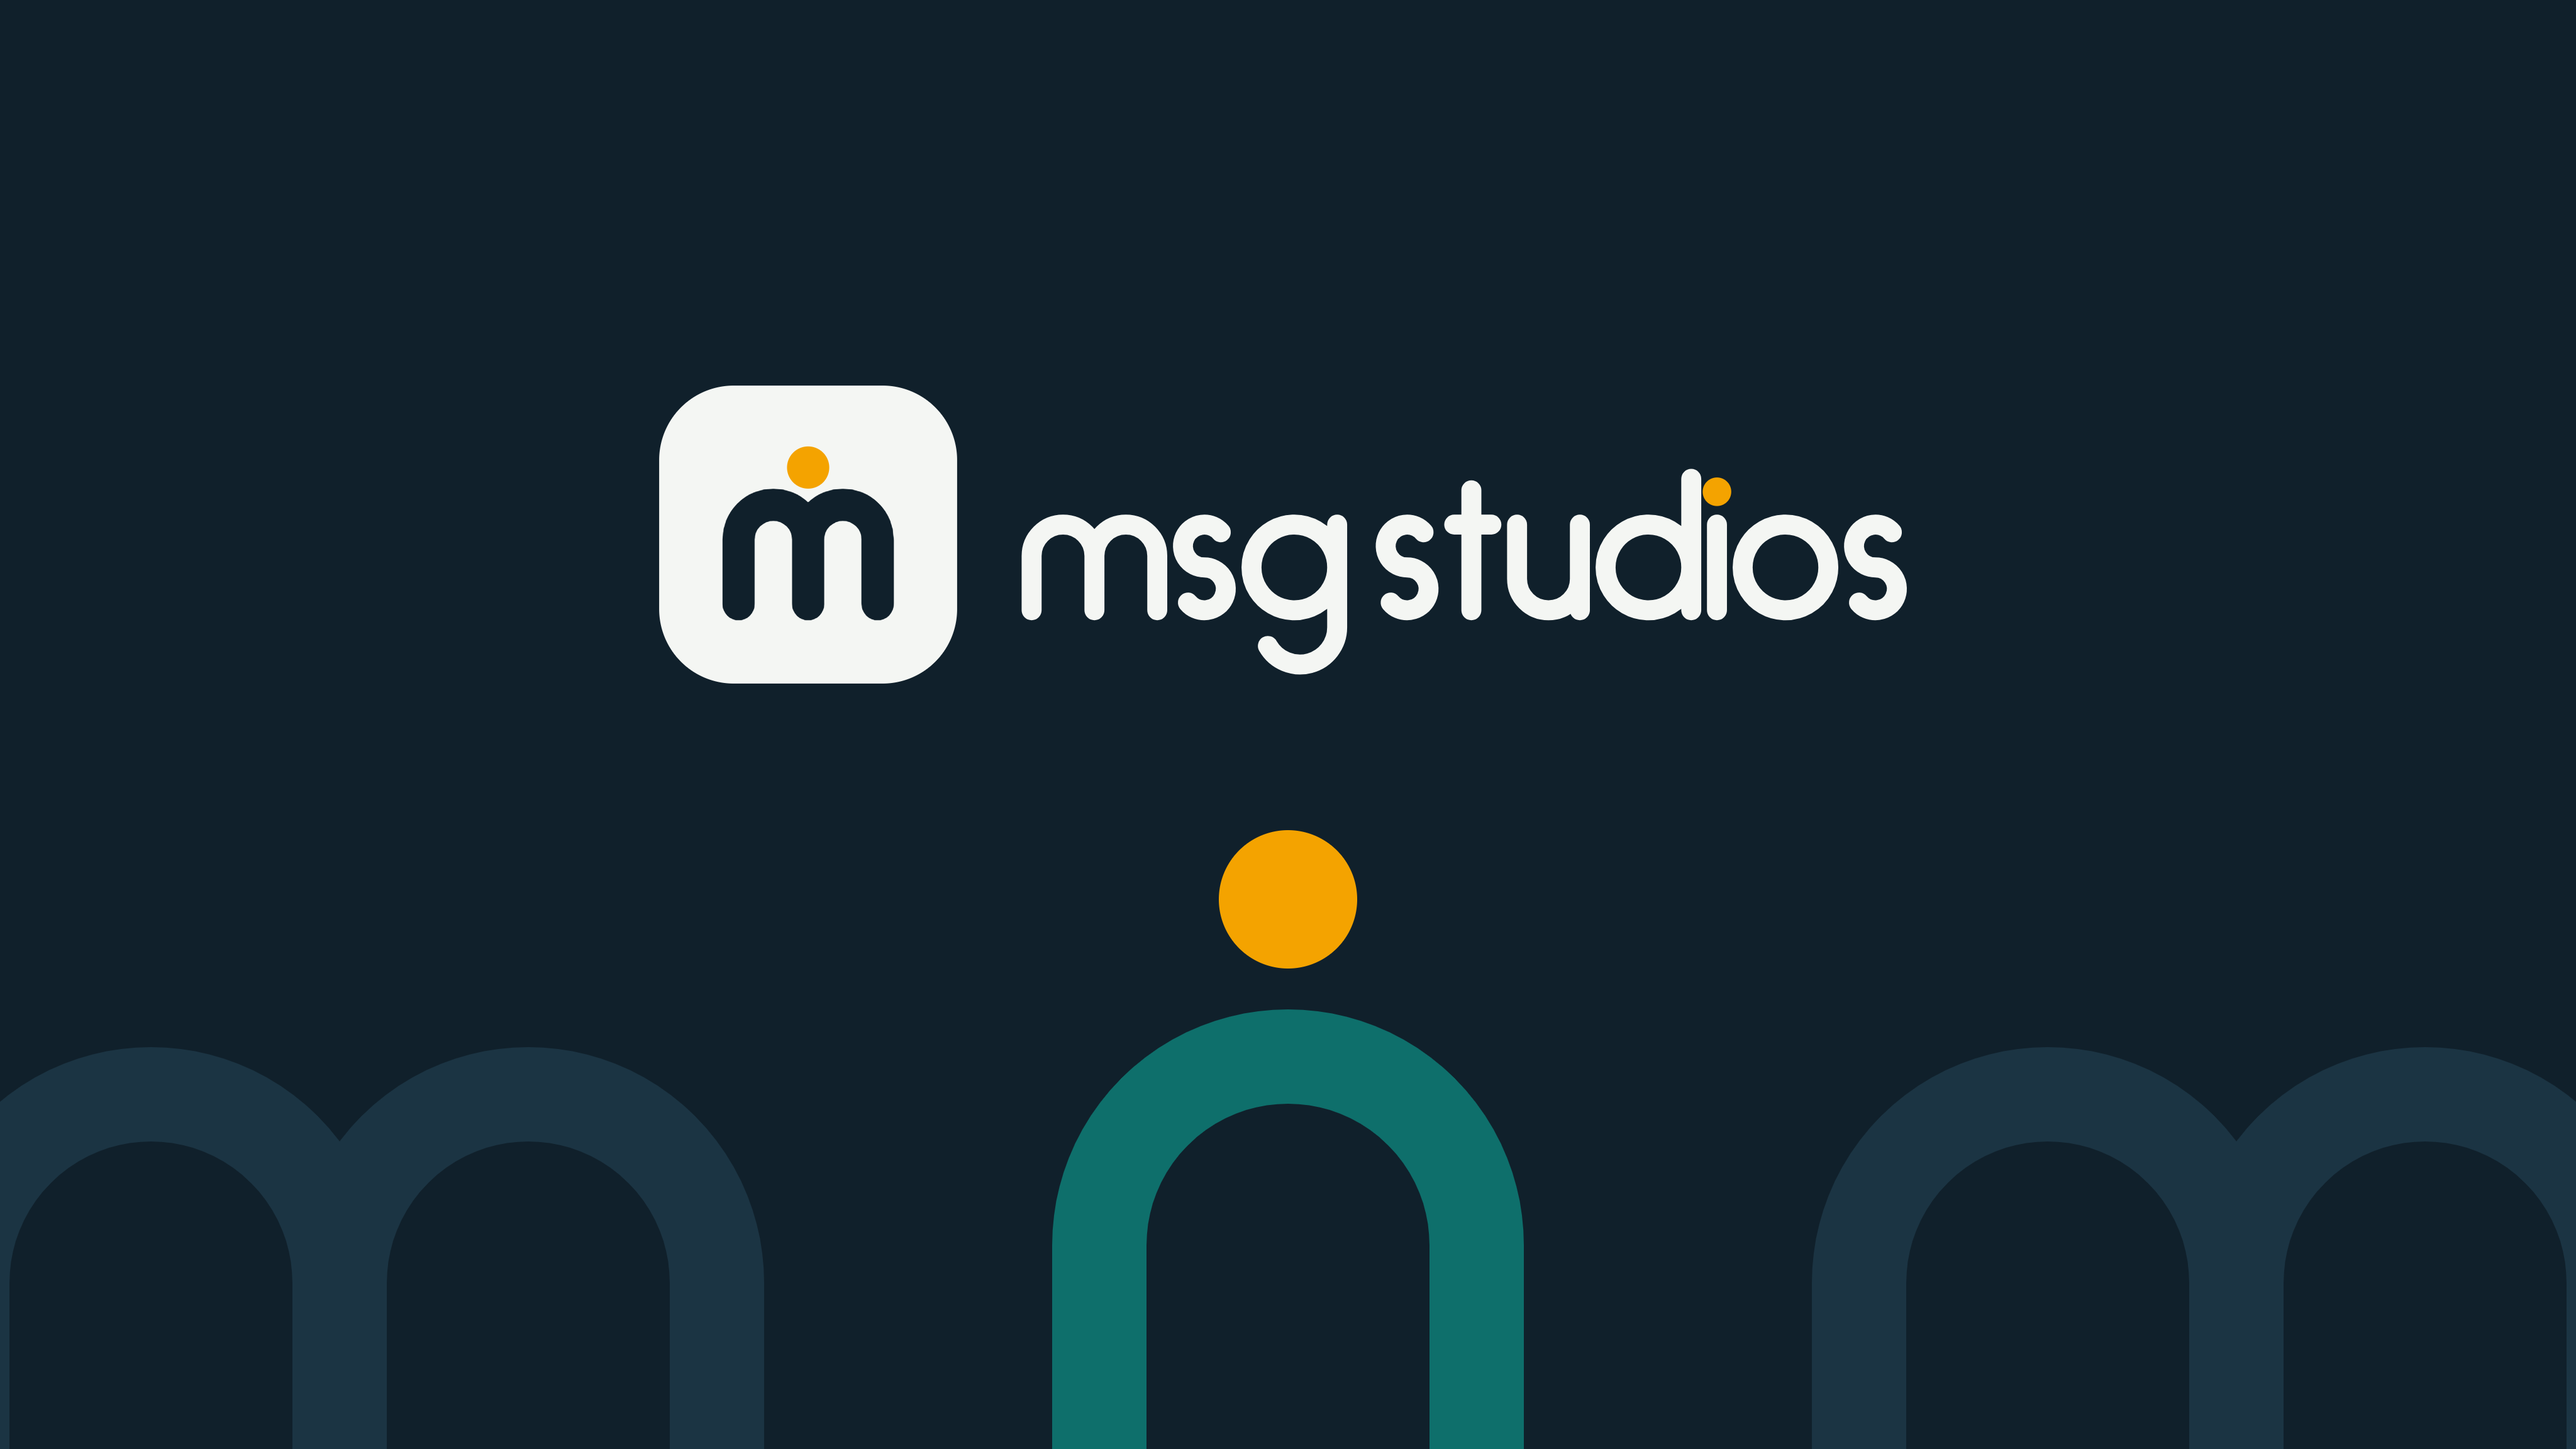
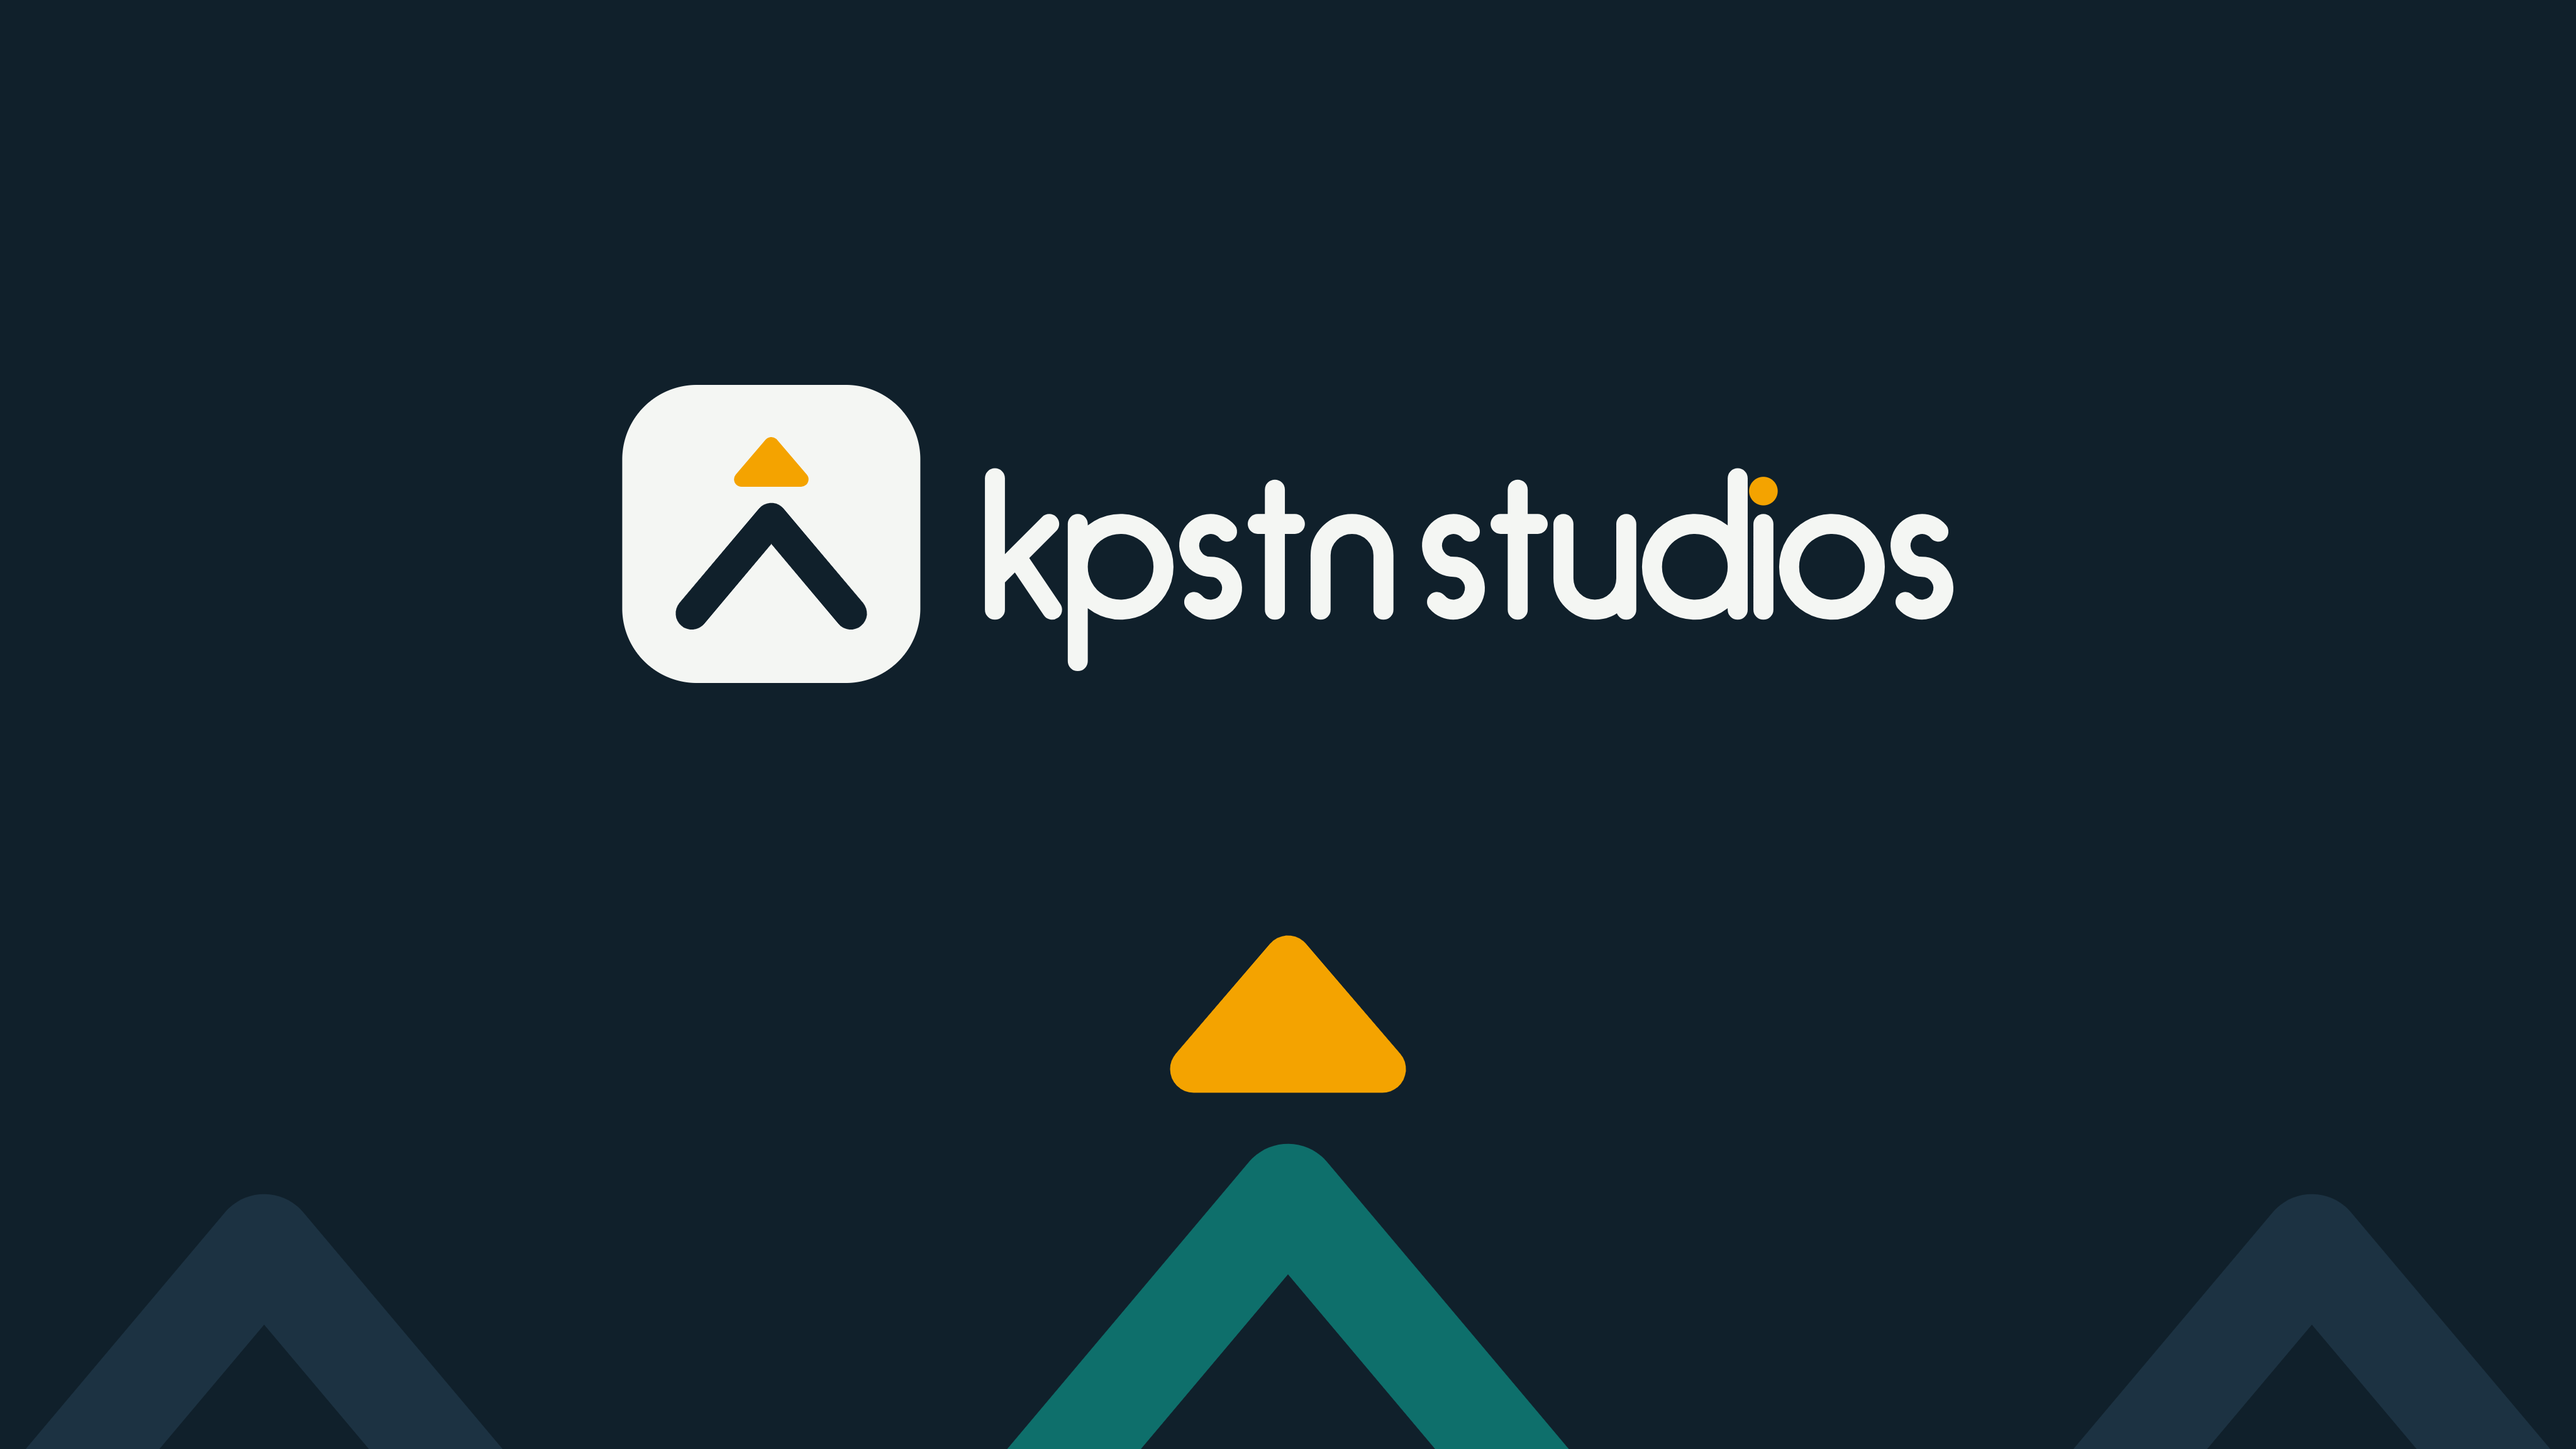
v0.44.2: the Kpstn Studios mark
The studio's new mark, a stone peak with a marigold capstone, replaces
the MSG m at the foot of Settings. docs/brand has the new mark, the
"kpstn studios" wordmark, lockups and Play developer page images; the
MSG files are removed.

diff --git a/web/src/ui/icons.js b/web/src/ui/icons.js
@@ -58,7 +58,7 @@ export function icon(name, size = 24) {
 
 export const ICONS = Object.keys(PATHS);
 
-// The studio's mark (docs/brand, drawn when it was MSG Studios): two hills and the sun, in its own colours.
+// The Kpstn Studios mark (docs/brand): a stone peak with its capstone on top, in the studio's own colours.
 export function studioMark(size = 20) {
-  return `<svg class="studio-mark" viewBox="0 0 120 120" width="${size}" height="${size}" aria-hidden="true"><rect width="120" height="120" rx="30" fill="#10202B"/><path d="M32 88V62A14 14 0 0 1 60 62V88M60 62A14 14 0 0 1 88 62V88" fill="none" stroke="#F4F6F3" stroke-width="13" stroke-linecap="round"/><circle cx="60" cy="33" r="8.5" fill="#F4A300"/></svg>`;
+  return `<svg class="studio-mark" viewBox="0 0 120 120" width="${size}" height="${size}" aria-hidden="true"><rect width="120" height="120" rx="30" fill="#10202B"/><path d="M28 92L60 54L92 92" fill="none" stroke="#F4F6F3" stroke-width="13" stroke-linecap="round" stroke-linejoin="round"/><path d="M60 24L72 38H48Z" fill="#F4A300" stroke="#F4A300" stroke-width="6" stroke-linejoin="round"/></svg>`;
 }

diff --git a/docs/brand/README.md b/docs/brand/README.md
@@ -1,27 +1,26 @@
 # Kpstn Studios brand
 
-The studio was renamed from MSG Studios to **Kpstn Studios** on 2026-11-11.
-The files below were drawn for the old name: the mark's hills are an m, and
-the wordmark and lockups spell "msg studios". Until new ones are drawn, use
-the mark on its own and write the name in text; don't use the wordmark,
-lockups or Play developer page images.
-
-The studio's logo files, first drawn on 2026-10-31. The full brand
-book (colours, type, voice and how to use the logo) is the **MSG Studios**
-design system artifact on claude.ai; these are its source files.
+The studio's logo files, drawn on 2026-11-11 when MSG Studios became
+**Kpstn Studios**. The full brand book (colours, type, voice and how to use the
+logo) is the **Kpstn Studios** design system artifact on claude.ai; these are
+its source files.
 
 | File | Use it for |
 | --- | --- |
-| `msg-studios-mark.svg` | The mark: two hills (an m) and a rising sun, on the night tile. Light grounds. |
-| `msg-studios-mark-paper.svg` | The same on a paper tile, for dark grounds and photos. |
-| `msg-studios-wordmark.svg`, `-paper.svg` | "msg studios" drawn from one round stroke (not a font), the i's dot marigold. |
-| `msg-studios-lockup.svg`, `-paper.svg` | Mark and wordmark side by side: store pages, end cards, a site header. |
+| `kpstn-studios-mark.svg` | The mark: a stone peak with a marigold capstone set on top, on the night tile. Light grounds. |
+| `kpstn-studios-mark-paper.svg` | The same on a paper tile, for dark grounds and photos. |
+| `kpstn-studios-wordmark.svg`, `-paper.svg` | "kpstn studios" drawn from one round stroke (not a font), the i's dot marigold. |
+| `kpstn-studios-lockup.svg`, `-paper.svg` | Mark and wordmark side by side: store pages, end cards, a site header. |
 | `play-developer-icon-512.png` | Play Console → Developer page → icon (512 × 512). |
 | `play-developer-header-4096x2304.png` | Play Console → Developer page → header image (4096 × 2304). |
 
 Colours: night `#10202B`, paper `#F4F6F3`, marigold `#F4A300`, lagoon
 `#0E6F6B`. Write the name **Kpstn Studios**. Keep a clear space of half the
-mark's height around it; don't recolour, outline or stretch it.
+mark's height around it; don't recolour, outline or stretch it. The mark reads
+down to 20 px; below that, use the name in text.
 
 Inside No Paddle the studio appears once, at the foot of Settings: the mark and
 "Made by Kpstn Studios".
+
+The MSG Studios files (an m as two hills under a sun) are in the git history
+before 2026-11-11.

diff --git a/CHANGELOG.md b/CHANGELOG.md
@@ -1,5 +1,11 @@
 # Changelog
 
+## [0.44.2] - 2026-11-11
+
+The studio's new mark.
+
+- **The Kpstn Studios mark.** Next to "Made by Kpstn Studios" at the foot of Settings, the old m under a sun is now the studio's new mark: a stone peak with a marigold capstone on top. The logo files and Play developer page images in docs/brand are redrawn to match.
+
 ## [0.44.1] - 2026-11-11
 
 The studio has a new name.

diff --git a/README.md b/README.md
@@ -130,7 +130,7 @@ signing and `docs/PLAY_STORE.md` for Google Play.
 
 ## Credits
 
-No Paddle is made by **Kpstn Studios** (formerly MSG Studios). The logo and brand files are in
+No Paddle is made by **Kpstn Studios** (formerly MSG Studios). The studio's logo and brand files are in
 [docs/brand/](docs/brand/).
 
 Barlow and Barlow Condensed fonts by Jeremy Tribby, SIL Open Font License
